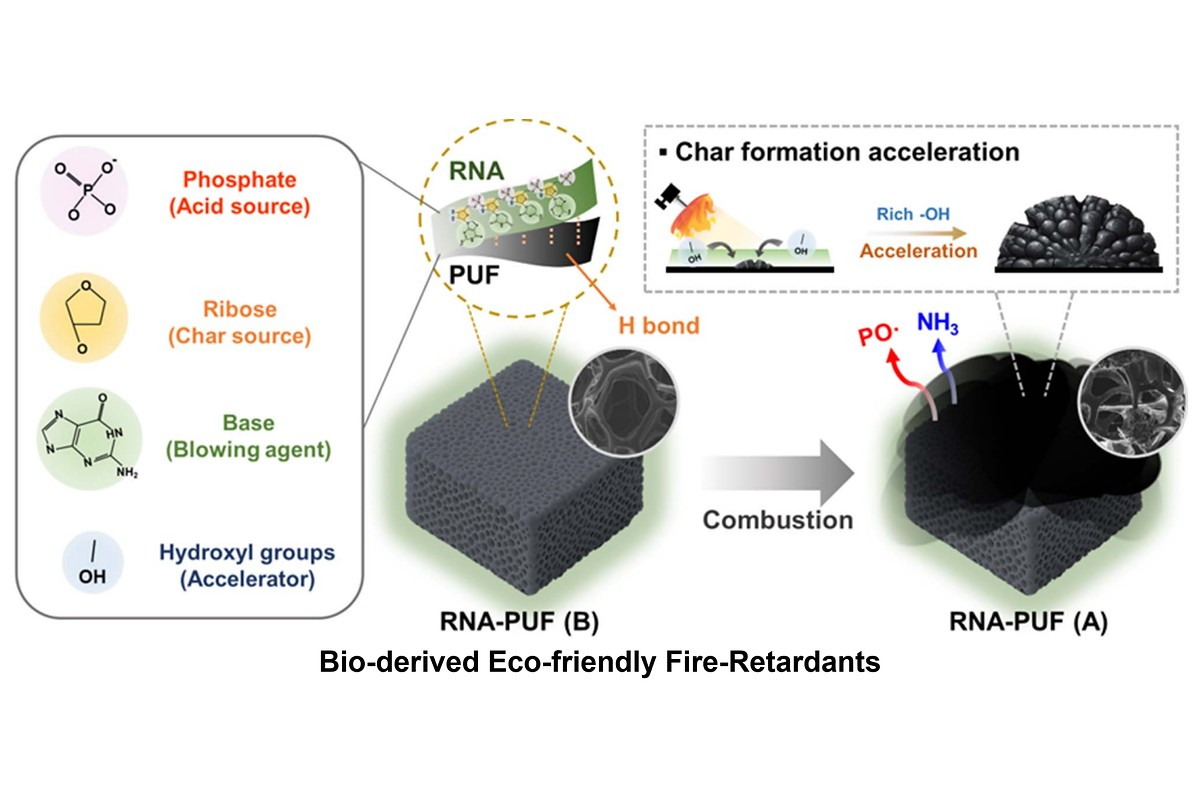
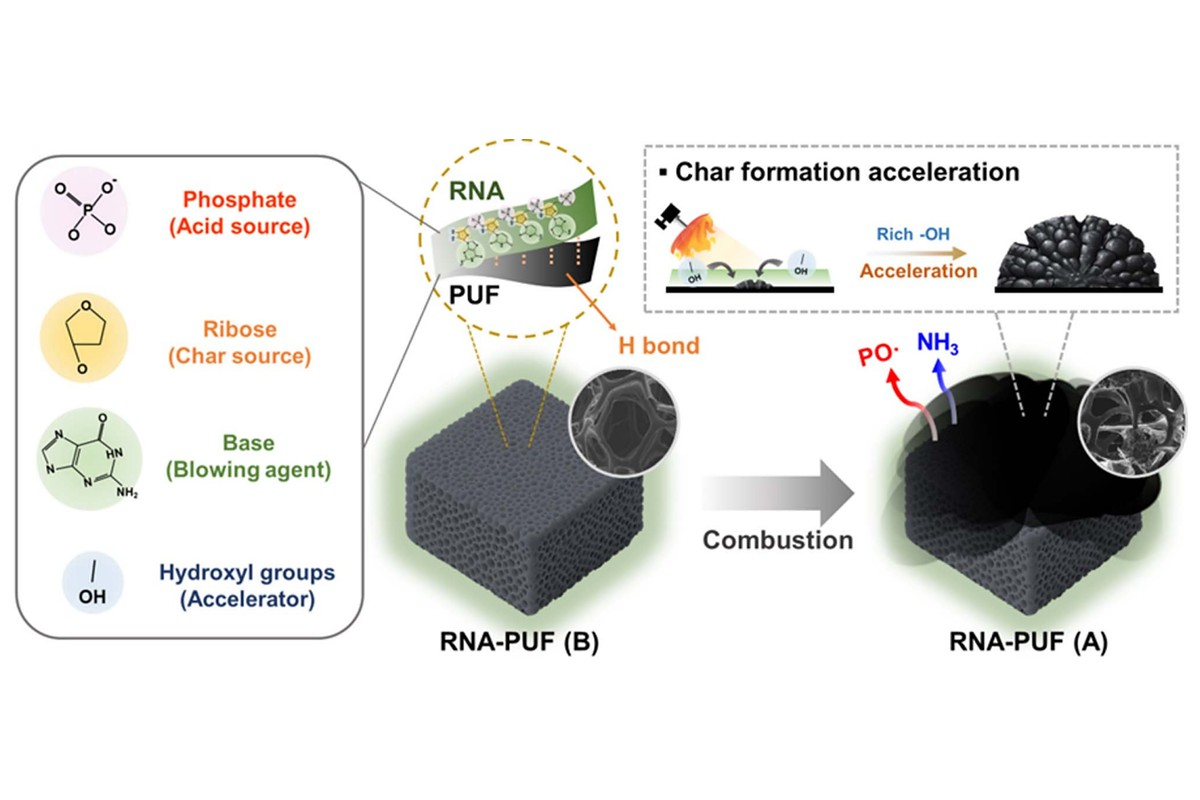
Research: the title line comes off the figures themselves
The lightbox already prints a caption under every figure, so the short title line
sitting under the artwork in the image file was saying the same thing twice. The
title band is gone from nine figures and each one is re-fitted on white:

- aerogel: "Bio-Derived Multifunctional Aerogels"
- thermal filler: "Thermally Switchable Fillers for Heat Dissipation and Insulation"
- SCAC cells: "Single-Chain Atomic Crystals for Enhanced Cell Adhesion and Proliferation"
- hydrogel: "Single-Chain Atomic Crystals for Bone Regeneration"
- RNA flame retardant: "Bio-derived Eco-friendly Fire-Retardants"
- flame test: "Bio-derived Eco-friendly Fire-Retardants"
- AI DNA analysis: "AI-Based DNA Image Analysis"
- cell counting: "Smartphone-Based Colorimetric Cell Quantification"
- dual-enzyme whitening: "Dual-Enzyme-Based Tooth-Whitening Material" (wiped out of the
  white gap beside the dentinal-hypersensitivity column, which is untouched)

The whitening wipe is the only one that needed a box rather than a bottom crop; the
rest were cut below the last row of artwork. Panel labels, axis labels, scale bars,
unit cells and chemical terms stay exactly as they were. The nine figures without
such a title line were left alone. Every ?v= of the changed images is bumped.

Changed region(s): [[0.0, 0.125, 1.0, 0.8438]]

diff --git a/research/index.html b/research/index.html
@@ -88,7 +88,7 @@
       <h2>Four research areas</h2>
       <p>Each area stands on its own and feeds the others: a nanostructure made for diagnosis becomes a surface for studying cells, and the images it generates train the next generation of design models. Each card turns through the figures behind that area; select one to open the viewer and step through them all.</p>
     </div>
-    <div class="area-grid"><article class="area reveal" id="biomedical-diagnosis"><button class="gallery-item area-media" type="button" data-gallery-item data-frames='[{"s": "../assets/research-nanocluster.jpg?v=5af2bd51", "a": "Gold nanorods in mesoporous silica (GNR@mSiO2) nanoclusters: TEM images and cross-sections of the P1, P2 and P3 clusters, and models of a parallelly ordered cluster with the rods packed side by side and a randomly ordered cluster", "c": "Complex nanoclusters: gold nanorods grown inside mesoporous silica (GNR@mSiO2), from the TEM images of the P1, P2 and P3 clusters to the models of a parallelly ordered cluster and a randomly ordered one."}, {"s": "../assets/research-aptamer.jpg?v=9cf2ce0a", "a": "Cycle of graphene-oxide-coated magnetic nanoparticle (GOMNP) SELEX: the beads bind the target-ssDNA complex, magnetic separation, asymmetric PCR amplification and purification for the next round", "c": "Finding new DNA aptamers with graphene-oxide-coated magnetic nanoparticles: target-bound strands are separated magnetically, amplified and carried into the next SELEX round."}, {"s": "../assets/research-cellcount.jpg?v=1a73e40f", "a": "Ach-CC colorimetric sensor: the vials change colour as the cell number rises and membrane enzymes release lactate and hydrogen ions; a smartphone converts RGB to HSV and quantifies 0, 60 x 10^4 and 440 x 10^4 cells", "c": "Counting cells from a colour change: the Ach-CC sensor shifts colour as cells release lactate and hydrogen ions, and a smartphone camera reads the RGB to HSV shift and reports the cell number."}, {"s": "../assets/research-whitening.jpg?v=ee18ba54", "a": "DENTA dual-enzyme tooth whitening: glucose oxidase generates H2O2 for whitening while catalase removes the excess, so sustained whitening replaces the self-degradation of single-enzyme whitening, without killing cells or damaging the dentinal tubules", "c": "Dual-enzyme whitening: glucose oxidase supplies H2O2 while catalase removes the excess, so DENTA keeps whitening instead of consuming itself, without harming cells and with less dentinal hypersensitivity."}, {"s": "../assets/research-plasmonic.jpg?v=5b90ddf2", "a": "DNA-addressed plasmonic colour: red gold nanoparticles, yellow silver nanoparticles and cyan gold nanorods, each carrying its own DNA strand, mix to black in the CRYK colour model; below, a virus capsid and a DNA probe on a gold nanorod that switches on when the virus is captured", "c": "Plasmonic colour from DNA-addressed nanoparticles: gold (red), silver (yellow) and gold-nanorod (cyan) building blocks mix to an achromatic black, and a DNA probe on a gold nanorod reports a captured virus as an ON signal."}]' aria-label="Open the figures for Nanomaterials for Biomedical Diagnosis &amp; Therapy"><span class="gal-track"><img class="gal-frame is-active" src="../assets/research-nanocluster.jpg?v=5af2bd51" alt="Gold nanorods in mesoporous silica (GNR@mSiO2) nanoclusters: TEM images and cross-sections of the P1, P2 and P3 clusters, and models of a parallelly ordered cluster with the rods packed side by side and a randomly ordered cluster" width="1200" height="800" loading="lazy" decoding="async"><img class="gal-frame" src="../assets/research-aptamer.jpg?v=9cf2ce0a" alt="Cycle of graphene-oxide-coated magnetic nanoparticle (GOMNP) SELEX: the beads bind the target-ssDNA complex, magnetic separation, asymmetric PCR amplification and purification for the next round" width="1200" height="800" loading="lazy" decoding="async"><img class="gal-frame" src="../assets/research-cellcount.jpg?v=1a73e40f" alt="Ach-CC colorimetric sensor: the vials change colour as the cell number rises and membrane enzymes release lactate and hydrogen ions; a smartphone converts RGB to HSV and quantifies 0, 60 x 10^4 and 440 x 10^4 cells" width="1200" height="800" loading="lazy" decoding="async"><img class="gal-frame" src="../assets/research-whitening.jpg?v=ee18ba54" alt="DENTA dual-enzyme tooth whitening: glucose oxidase generates H2O2 for whitening while catalase removes the excess, so sustained whitening replaces the self-degradation of single-enzyme whitening, without killing cells or damaging the dentinal tubules" width="1200" height="800" loading="lazy" decoding="async"><img class="gal-frame" src="../assets/research-plasmonic.jpg?v=5b90ddf2" alt="DNA-addressed plasmonic colour: red gold nanoparticles, yellow silver nanoparticles and cyan gold nanorods, each carrying its own DNA strand, mix to black in the CRYK colour model; below, a virus capsid and a DNA probe on a gold nanorod that switches on when the virus is captured" width="1200" height="800" loading="lazy" decoding="async"></span><span class="gal-badge">1 / 5</span><span class="gal-dots"><i class="is-on"></i><i></i><i></i><i></i><i></i></span><span class="zoom"><svg class="" viewBox="0 0 24 24" fill="none" stroke="currentColor" stroke-width="1.8" stroke-linecap="round" stroke-linejoin="round" aria-hidden="true"><path d="M11 19a8 8 0 100-16 8 8 0 000 16zM21 21l-4.3-4.3 M11 8v6M8 11h6"/></svg></span></button><div class="area-body"><span class="card-num">AREA 01</span><h3>Nanomaterials for Biomedical Diagnosis &amp; Therapy</h3><p>Plasmonic nanostructures and complex nanoclusters of gold nanorods in mesoporous silica, DNA aptamers and enzyme- or biomolecule-based systems for sensitive biosensing, diagnostics and targeted therapy.</p></div></article><article class="area reveal" id="materials-cell-interactions"><button class="gallery-item area-media" type="button" data-gallery-item data-frames='[{"s": "../assets/research-cell.jpg?v=2810f20a", "a": "DNApatite model: phosphate groups on single-stranded DNA binding Ca2+ and OH- into an apatite unit cell, the hydrothermal synthesis route, and molecular-dynamics snapshots at 0.4, 50 and 100 ns", "c": "DNApatite, an elastic apatite in which phosphates on DNA react with Ca2+ and OH- to form a crystalline organo-inorganic lattice, from the unit cell to a 200 nm rod and its molecular-dynamics behaviour."}, {"s": "../assets/research-dnapatite-mechanics.jpg?v=852c49da", "a": "DNApatite mechanics: ssDNA phosphate groups crystallize with Ca2+ into an apatite lattice, a 200 nm rod with 0.78 nm HA and 0.37 nm ssDNA spacings, and load-displacement curves that keep bending where HA nanorods fail", "c": "Why DNApatite is elastic: its phosphate backbone sets a 0.37 nm spacing against 0.78 nm in HA, and the rod keeps deforming and recovering in load-displacement tests far beyond the HA nanorod."}, {"s": "../assets/research-scac.jpg?v=f1a5b5c0", "a": "Single-chain atomic crystal (SCAC) Li-Mo-Se nanowires as an ECM-mimicking surface: SEM, actin filaments, focal contacts, nuclei and merged fluorescence of L-929 fibroblasts and MC3T3-E1 pre-osteoblasts on bare glass versus the nanowire coating", "c": "Single-chain atomic crystals of Li-Mo-Se as an extracellular-matrix-mimicking surface: L-929 and MC3T3-E1 cells spread further and build more focal contacts than on bare glass."}, {"s": "../assets/research-hydrogel.jpg?v=d5148ce4", "a": "Mo3Se3 inorganic-molecular-wire reinforced gelatin/silk hydrogel: the porous matrix, its non-covalent cross-links and the 0.6 nm crystal structure of the wire, plus a hole defect in a rabbit model and micro-CT scans at 28 days for the GS and IMW-GS gels", "c": "An inorganic-molecular-wire reinforced gelatin/silk hydrogel for bone regeneration: micro-CT at 28 days shows the wire-reinforced gel filling a rabbit bone defect where the plain gel leaves a void."}]' aria-label="Open the figures for Materials &amp; Cell Interfaces"><span class="gal-track"><img class="gal-frame is-active" src="../assets/research-cell.jpg?v=2810f20a" alt="DNApatite model: phosphate groups on single-stranded DNA binding Ca2+ and OH- into an apatite unit cell, the hydrothermal synthesis route, and molecular-dynamics snapshots at 0.4, 50 and 100 ns" width="1200" height="800" loading="lazy" decoding="async"><img class="gal-frame" src="../assets/research-dnapatite-mechanics.jpg?v=852c49da" alt="DNApatite mechanics: ssDNA phosphate groups crystallize with Ca2+ into an apatite lattice, a 200 nm rod with 0.78 nm HA and 0.37 nm ssDNA spacings, and load-displacement curves that keep bending where HA nanorods fail" width="1200" height="800" loading="lazy" decoding="async"><img class="gal-frame" src="../assets/research-scac.jpg?v=f1a5b5c0" alt="Single-chain atomic crystal (SCAC) Li-Mo-Se nanowires as an ECM-mimicking surface: SEM, actin filaments, focal contacts, nuclei and merged fluorescence of L-929 fibroblasts and MC3T3-E1 pre-osteoblasts on bare glass versus the nanowire coating" width="1200" height="800" loading="lazy" decoding="async"><img class="gal-frame" src="../assets/research-hydrogel.jpg?v=d5148ce4" alt="Mo3Se3 inorganic-molecular-wire reinforced gelatin/silk hydrogel: the porous matrix, its non-covalent cross-links and the 0.6 nm crystal structure of the wire, plus a hole defect in a rabbit model and micro-CT scans at 28 days for the GS and IMW-GS gels" width="1200" height="800" loading="lazy" decoding="async"></span><span class="gal-badge">1 / 4</span><span class="gal-dots"><i class="is-on"></i><i></i><i></i><i></i></span><span class="zoom"><svg class="" viewBox="0 0 24 24" fill="none" stroke="currentColor" stroke-width="1.8" stroke-linecap="round" stroke-linejoin="round" aria-hidden="true"><path d="M11 19a8 8 0 100-16 8 8 0 000 16zM21 21l-4.3-4.3 M11 8v6M8 11h6"/></svg></span></button><div class="area-body"><span class="card-num">AREA 02</span><h3>Materials &amp; Cell Interfaces</h3><p>How nanostructured surfaces and bioinspired hydrogels steer cell adhesion, proliferation and tissue repair in vivo, from single-chain atomic crystals to DNApatite, an organo-inorganic apatite as stiff as bone yet elastic.</p></div></article><article class="area reveal" id="bio-derived-materials"><button class="gallery-item area-media" type="button" data-gallery-item data-frames='[{"s": "../assets/research-bio.jpg?v=2d08a41c", "a": "Textile treatment scheme: a pad-dry-cure process line and C-O-P bonds linking ATP and reactive dye to cellulose in cotton", "c": "Bio-derived materials and flame retardants: cotton is scoured, treated with adenosine triphosphate and a reactive dye, then padded and cured, so C-O-P bonds anchor the bio-derived phosphorus chemistry to the fibre."}, {"s": "../assets/research-fr-rna.jpg?v=0c2c7f63", "a": "RNA as a bio-derived flame retardant for polyurethane foam: its phosphate is the acid source, its ribose the char source, its nucleobase the blowing agent and its hydroxyl groups the accelerator, all hydrogen-bonded to the foam surface, so combustion builds a protective char and releases PO and NH3", "c": "RNA as a fire retardant for polyurethane foam: the phosphate, ribose and nucleobase of RNA act as acid source, char source and blowing agent, and on combustion the foam builds a protective char that releases PO and NH3 instead of burning."}, {"s": "../assets/research-fr-test.jpg?v=74b2f901", "a": "Flame test of bare polyurethane and flame-retardant polyurethane: the bare foam ignites and burns through within 30 seconds while the treated foam holds to 70 seconds, with infrared images of the surface temperature and SEM images of the remaining char", "c": "Bio-derived flame retardancy in polyurethane foam: the untreated foam burns through within 30 seconds, while the treated foam holds its shape to 70 seconds, and infrared imaging and SEM show the cooler surface and the dense char that protects it."}, {"s": "../assets/research-thermal-filler.jpg?v=e5180d97", "a": "Heat-switching filler: magnetite nanoparticles coated with silica and SDS, thermal conductivity peaking at 0.467 W m-1 K-1 for 30 wt% and falling as the temperature rises to 250 C, flame tests of coatings from 0 to 10 wt%, and SEM and TEM images of the particles before and after heating", "c": "A thermally switchable filler: magnetite nanoparticles with a silica shell and an SDS surface conduct heat best at 30 wt%, 0.467 W m-1 K-1, and switch that conduction off as the temperature rises, so one bio-derived coating can either dissipate heat or insulate."}, {"s": "../assets/research-aerogel.jpg?v=5937414d", "a": "Bio-derived multifunctional aerogel: tannic acid, adenosine triphosphate and cellulose nanofibers with 3-aminopropyl triethoxysilane form a TA/ATP/CNF aerogel that is flame retardant, thermally insulating, water resistant, oil absorbent and mechanically strong", "c": "A bio-derived multifunctional aerogel: tannic acid, ATP and cellulose nanofibers with an aminosilane cross-linker give a TA/ATP/CNF aerogel that is flame retardant, thermally insulating, water resistant, oil absorbent and mechanically strong."}]' aria-label="Open the figures for Bio-Derived Materials &amp; Flame Retardants"><span class="gal-track"><img class="gal-frame is-active" src="../assets/research-bio.jpg?v=2d08a41c" alt="Textile treatment scheme: a pad-dry-cure process line and C-O-P bonds linking ATP and reactive dye to cellulose in cotton" width="1200" height="800" loading="lazy" decoding="async"><img class="gal-frame" src="../assets/research-fr-rna.jpg?v=0c2c7f63" alt="RNA as a bio-derived flame retardant for polyurethane foam: its phosphate is the acid source, its ribose the char source, its nucleobase the blowing agent and its hydroxyl groups the accelerator, all hydrogen-bonded to the foam surface, so combustion builds a protective char and releases PO and NH3" width="1200" height="800" loading="lazy" decoding="async"><img class="gal-frame" src="../assets/research-fr-test.jpg?v=74b2f901" alt="Flame test of bare polyurethane and flame-retardant polyurethane: the bare foam ignites and burns through within 30 seconds while the treated foam holds to 70 seconds, with infrared images of the surface temperature and SEM images of the remaining char" width="1200" height="800" loading="lazy" decoding="async"><img class="gal-frame" src="../assets/research-thermal-filler.jpg?v=e5180d97" alt="Heat-switching filler: magnetite nanoparticles coated with silica and SDS, thermal conductivity peaking at 0.467 W m-1 K-1 for 30 wt% and falling as the temperature rises to 250 C, flame tests of coatings from 0 to 10 wt%, and SEM and TEM images of the particles before and after heating" width="1200" height="800" loading="lazy" decoding="async"><img class="gal-frame" src="../assets/research-aerogel.jpg?v=5937414d" alt="Bio-derived multifunctional aerogel: tannic acid, adenosine triphosphate and cellulose nanofibers with 3-aminopropyl triethoxysilane form a TA/ATP/CNF aerogel that is flame retardant, thermally insulating, water resistant, oil absorbent and mechanically strong" width="1200" height="800" loading="lazy" decoding="async"></span><span class="gal-badge">1 / 5</span><span class="gal-dots"><i class="is-on"></i><i></i><i></i><i></i><i></i></span><span class="zoom"><svg class="" viewBox="0 0 24 24" fill="none" stroke="currentColor" stroke-width="1.8" stroke-linecap="round" stroke-linejoin="round" aria-hidden="true"><path d="M11 19a8 8 0 100-16 8 8 0 000 16zM21 21l-4.3-4.3 M11 8v6M8 11h6"/></svg></span></button><div class="area-body"><span class="card-num">AREA 03</span><h3>Bio-Derived Materials &amp; Flame Retardants</h3><p>We develop bio-based flame retardants for polymers and textiles using ATP, RNA, and other biomolecules. We also explore chitosan, cellulose, and other bio-derived building blocks for sustainable materials: aerogels that insulate, repel water and absorb oil, and fillers that switch their heat transport with temperature.</p></div></article><article class="area reveal" id="ai-materials-design"><button class="gallery-item area-media" type="button" data-gallery-item data-frames='[{"s": "../assets/research-ai.jpg?v=423691f2", "a": "Genetic-algorithm image analysis of TEM micrographs: densely packed gold nanorods separated into individual particles, 18-bit gene strings recombined and mutated, and the shapes clustered into groups of 10, 4, 62, 23 and 1 percent", "c": "AI-driven characterization: a genetic algorithm searches 18-bit combinations of image-analysis steps, so densely packed gold nanorods in TEM images are separated into individual particles and clustered into five shape families (10, 4, 62, 23 and 1 percent)."}, {"s": "../assets/research-ai-ga.jpg?v=0db09b6a", "a": "Inside the genetic algorithm: image analysis of a TEM image through pretreatment, edge detection and post treatment, an 18-bit gene that sets kernel size, connectivity, sequence, threshold and select, and crossover and mutation of the high-scoring parameter sets until the particles separate cleanly", "c": "How the search works: each 18-bit gene encodes the kernel size, connectivity, sequence, threshold and selection of the image-analysis steps, and the best-scoring sets are crossed over and mutated until the gold nanorods in the TEM image are separated cleanly."}, {"s": "../assets/research-ai-dna.jpg?v=def2c4d3", "a": "AI-based DNA image analysis: stacks of electron micrographs of salmon sperm DNA and M13 phage DNA are segmented into binary skeletons, so the length and shape of each molecule can be measured", "c": "Deep-learning DNA image analysis: stacks of electron micrographs of salmon sperm DNA and M13 phage DNA are segmented into skeletons, so many molecules are measured for length and shape at once."}, {"s": "../assets/research-opticalmap.jpg?v=a3c85674", "a": "Optical map of a single DNA molecule: DNA-binding proteins and streptavidin-coated quantum dots label chosen sites, fluorescence and SEM images of m13mp18 DNA, and an automated optical map with eight labelled sites along the strand", "c": "Reading a single DNA molecule: quantum-dot labels mark chosen sites on m13mp18 DNA, and an automated read-out of the fluorescence and SEM images turns the labelled positions into an optical map."}]' aria-label="Open the figures for AI-Driven Material Design &amp; Characterization"><span class="gal-track"><img class="gal-frame is-active" src="../assets/research-ai.jpg?v=423691f2" alt="Genetic-algorithm image analysis of TEM micrographs: densely packed gold nanorods separated into individual particles, 18-bit gene strings recombined and mutated, and the shapes clustered into groups of 10, 4, 62, 23 and 1 percent" width="1200" height="800" loading="lazy" decoding="async"><img class="gal-frame" src="../assets/research-ai-ga.jpg?v=0db09b6a" alt="Inside the genetic algorithm: image analysis of a TEM image through pretreatment, edge detection and post treatment, an 18-bit gene that sets kernel size, connectivity, sequence, threshold and select, and crossover and mutation of the high-scoring parameter sets until the particles separate cleanly" width="1200" height="800" loading="lazy" decoding="async"><img class="gal-frame" src="../assets/research-ai-dna.jpg?v=def2c4d3" alt="AI-based DNA image analysis: stacks of electron micrographs of salmon sperm DNA and M13 phage DNA are segmented into binary skeletons, so the length and shape of each molecule can be measured" width="1200" height="800" loading="lazy" decoding="async"><img class="gal-frame" src="../assets/research-opticalmap.jpg?v=a3c85674" alt="Optical map of a single DNA molecule: DNA-binding proteins and streptavidin-coated quantum dots label chosen sites, fluorescence and SEM images of m13mp18 DNA, and an automated optical map with eight labelled sites along the strand" width="1200" height="800" loading="lazy" decoding="async"></span><span class="gal-badge">1 / 4</span><span class="gal-dots"><i class="is-on"></i><i></i><i></i><i></i></span><span class="zoom"><svg class="" viewBox="0 0 24 24" fill="none" stroke="currentColor" stroke-width="1.8" stroke-linecap="round" stroke-linejoin="round" aria-hidden="true"><path d="M11 19a8 8 0 100-16 8 8 0 000 16zM21 21l-4.3-4.3 M11 8v6M8 11h6"/></svg></span></button><div class="area-body"><span class="card-num">AREA 04</span><h3>AI-Driven Material Design &amp; Characterization</h3><p>Machine-learning image analysis, genetic algorithms and autonomous agents that read electron micrographs, quantify nanostructures and shorten the path from a design idea to a validated material.</p></div></article></div>
+    <div class="area-grid"><article class="area reveal" id="biomedical-diagnosis"><button class="gallery-item area-media" type="button" data-gallery-item data-frames='[{"s": "../assets/research-nanocluster.jpg?v=5af2bd51", "a": "Gold nanorods in mesoporous silica (GNR@mSiO2) nanoclusters: TEM images and cross-sections of the P1, P2 and P3 clusters, and models of a parallelly ordered cluster with the rods packed side by side and a randomly ordered cluster", "c": "Complex nanoclusters: gold nanorods grown inside mesoporous silica (GNR@mSiO2), from the TEM images of the P1, P2 and P3 clusters to the models of a parallelly ordered cluster and a randomly ordered one."}, {"s": "../assets/research-aptamer.jpg?v=9cf2ce0a", "a": "Cycle of graphene-oxide-coated magnetic nanoparticle (GOMNP) SELEX: the beads bind the target-ssDNA complex, magnetic separation, asymmetric PCR amplification and purification for the next round", "c": "Finding new DNA aptamers with graphene-oxide-coated magnetic nanoparticles: target-bound strands are separated magnetically, amplified and carried into the next SELEX round."}, {"s": "../assets/research-cellcount.jpg?v=c017a470", "a": "Ach-CC colorimetric sensor: the vials change colour as the cell number rises and membrane enzymes release lactate and hydrogen ions; a smartphone converts RGB to HSV and quantifies 0, 60 x 10^4 and 440 x 10^4 cells", "c": "Counting cells from a colour change: the Ach-CC sensor shifts colour as cells release lactate and hydrogen ions, and a smartphone camera reads the RGB to HSV shift and reports the cell number."}, {"s": "../assets/research-whitening.jpg?v=34824e43", "a": "DENTA dual-enzyme tooth whitening: glucose oxidase generates H2O2 for whitening while catalase removes the excess, so sustained whitening replaces the self-degradation of single-enzyme whitening, without killing cells or damaging the dentinal tubules", "c": "Dual-enzyme whitening: glucose oxidase supplies H2O2 while catalase removes the excess, so DENTA keeps whitening instead of consuming itself, without harming cells and with less dentinal hypersensitivity."}, {"s": "../assets/research-plasmonic.jpg?v=5b90ddf2", "a": "DNA-addressed plasmonic colour: red gold nanoparticles, yellow silver nanoparticles and cyan gold nanorods, each carrying its own DNA strand, mix to black in the CRYK colour model; below, a virus capsid and a DNA probe on a gold nanorod that switches on when the virus is captured", "c": "Plasmonic colour from DNA-addressed nanoparticles: gold (red), silver (yellow) and gold-nanorod (cyan) building blocks mix to an achromatic black, and a DNA probe on a gold nanorod reports a captured virus as an ON signal."}]' aria-label="Open the figures for Nanomaterials for Biomedical Diagnosis &amp; Therapy"><span class="gal-track"><img class="gal-frame is-active" src="../assets/research-nanocluster.jpg?v=5af2bd51" alt="Gold nanorods in mesoporous silica (GNR@mSiO2) nanoclusters: TEM images and cross-sections of the P1, P2 and P3 clusters, and models of a parallelly ordered cluster with the rods packed side by side and a randomly ordered cluster" width="1200" height="800" loading="lazy" decoding="async"><img class="gal-frame" src="../assets/research-aptamer.jpg?v=9cf2ce0a" alt="Cycle of graphene-oxide-coated magnetic nanoparticle (GOMNP) SELEX: the beads bind the target-ssDNA complex, magnetic separation, asymmetric PCR amplification and purification for the next round" width="1200" height="800" loading="lazy" decoding="async"><img class="gal-frame" src="../assets/research-cellcount.jpg?v=c017a470" alt="Ach-CC colorimetric sensor: the vials change colour as the cell number rises and membrane enzymes release lactate and hydrogen ions; a smartphone converts RGB to HSV and quantifies 0, 60 x 10^4 and 440 x 10^4 cells" width="1200" height="800" loading="lazy" decoding="async"><img class="gal-frame" src="../assets/research-whitening.jpg?v=34824e43" alt="DENTA dual-enzyme tooth whitening: glucose oxidase generates H2O2 for whitening while catalase removes the excess, so sustained whitening replaces the self-degradation of single-enzyme whitening, without killing cells or damaging the dentinal tubules" width="1200" height="800" loading="lazy" decoding="async"><img class="gal-frame" src="../assets/research-plasmonic.jpg?v=5b90ddf2" alt="DNA-addressed plasmonic colour: red gold nanoparticles, yellow silver nanoparticles and cyan gold nanorods, each carrying its own DNA strand, mix to black in the CRYK colour model; below, a virus capsid and a DNA probe on a gold nanorod that switches on when the virus is captured" width="1200" height="800" loading="lazy" decoding="async"></span><span class="gal-badge">1 / 5</span><span class="gal-dots"><i class="is-on"></i><i></i><i></i><i></i><i></i></span><span class="zoom"><svg class="" viewBox="0 0 24 24" fill="none" stroke="currentColor" stroke-width="1.8" stroke-linecap="round" stroke-linejoin="round" aria-hidden="true"><path d="M11 19a8 8 0 100-16 8 8 0 000 16zM21 21l-4.3-4.3 M11 8v6M8 11h6"/></svg></span></button><div class="area-body"><span class="card-num">AREA 01</span><h3>Nanomaterials for Biomedical Diagnosis &amp; Therapy</h3><p>Plasmonic nanostructures and complex nanoclusters of gold nanorods in mesoporous silica, DNA aptamers and enzyme- or biomolecule-based systems for sensitive biosensing, diagnostics and targeted therapy.</p></div></article><article class="area reveal" id="materials-cell-interactions"><button class="gallery-item area-media" type="button" data-gallery-item data-frames='[{"s": "../assets/research-cell.jpg?v=2810f20a", "a": "DNApatite model: phosphate groups on single-stranded DNA binding Ca2+ and OH- into an apatite unit cell, the hydrothermal synthesis route, and molecular-dynamics snapshots at 0.4, 50 and 100 ns", "c": "DNApatite, an elastic apatite in which phosphates on DNA react with Ca2+ and OH- to form a crystalline organo-inorganic lattice, from the unit cell to a 200 nm rod and its molecular-dynamics behaviour."}, {"s": "../assets/research-dnapatite-mechanics.jpg?v=852c49da", "a": "DNApatite mechanics: ssDNA phosphate groups crystallize with Ca2+ into an apatite lattice, a 200 nm rod with 0.78 nm HA and 0.37 nm ssDNA spacings, and load-displacement curves that keep bending where HA nanorods fail", "c": "Why DNApatite is elastic: its phosphate backbone sets a 0.37 nm spacing against 0.78 nm in HA, and the rod keeps deforming and recovering in load-displacement tests far beyond the HA nanorod."}, {"s": "../assets/research-scac.jpg?v=ce71180d", "a": "Single-chain atomic crystal (SCAC) Li-Mo-Se nanowires as an ECM-mimicking surface: SEM, actin filaments, focal contacts, nuclei and merged fluorescence of L-929 fibroblasts and MC3T3-E1 pre-osteoblasts on bare glass versus the nanowire coating", "c": "Single-chain atomic crystals of Li-Mo-Se as an extracellular-matrix-mimicking surface: L-929 and MC3T3-E1 cells spread further and build more focal contacts than on bare glass."}, {"s": "../assets/research-hydrogel.jpg?v=f228cd94", "a": "Mo3Se3 inorganic-molecular-wire reinforced gelatin/silk hydrogel: the porous matrix, its non-covalent cross-links and the 0.6 nm crystal structure of the wire, plus a hole defect in a rabbit model and micro-CT scans at 28 days for the GS and IMW-GS gels", "c": "An inorganic-molecular-wire reinforced gelatin/silk hydrogel for bone regeneration: micro-CT at 28 days shows the wire-reinforced gel filling a rabbit bone defect where the plain gel leaves a void."}]' aria-label="Open the figures for Materials &amp; Cell Interfaces"><span class="gal-track"><img class="gal-frame is-active" src="../assets/research-cell.jpg?v=2810f20a" alt="DNApatite model: phosphate groups on single-stranded DNA binding Ca2+ and OH- into an apatite unit cell, the hydrothermal synthesis route, and molecular-dynamics snapshots at 0.4, 50 and 100 ns" width="1200" height="800" loading="lazy" decoding="async"><img class="gal-frame" src="../assets/research-dnapatite-mechanics.jpg?v=852c49da" alt="DNApatite mechanics: ssDNA phosphate groups crystallize with Ca2+ into an apatite lattice, a 200 nm rod with 0.78 nm HA and 0.37 nm ssDNA spacings, and load-displacement curves that keep bending where HA nanorods fail" width="1200" height="800" loading="lazy" decoding="async"><img class="gal-frame" src="../assets/research-scac.jpg?v=ce71180d" alt="Single-chain atomic crystal (SCAC) Li-Mo-Se nanowires as an ECM-mimicking surface: SEM, actin filaments, focal contacts, nuclei and merged fluorescence of L-929 fibroblasts and MC3T3-E1 pre-osteoblasts on bare glass versus the nanowire coating" width="1200" height="800" loading="lazy" decoding="async"><img class="gal-frame" src="../assets/research-hydrogel.jpg?v=f228cd94" alt="Mo3Se3 inorganic-molecular-wire reinforced gelatin/silk hydrogel: the porous matrix, its non-covalent cross-links and the 0.6 nm crystal structure of the wire, plus a hole defect in a rabbit model and micro-CT scans at 28 days for the GS and IMW-GS gels" width="1200" height="800" loading="lazy" decoding="async"></span><span class="gal-badge">1 / 4</span><span class="gal-dots"><i class="is-on"></i><i></i><i></i><i></i></span><span class="zoom"><svg class="" viewBox="0 0 24 24" fill="none" stroke="currentColor" stroke-width="1.8" stroke-linecap="round" stroke-linejoin="round" aria-hidden="true"><path d="M11 19a8 8 0 100-16 8 8 0 000 16zM21 21l-4.3-4.3 M11 8v6M8 11h6"/></svg></span></button><div class="area-body"><span class="card-num">AREA 02</span><h3>Materials &amp; Cell Interfaces</h3><p>How nanostructured surfaces and bioinspired hydrogels steer cell adhesion, proliferation and tissue repair in vivo, from single-chain atomic crystals to DNApatite, an organo-inorganic apatite as stiff as bone yet elastic.</p></div></article><article class="area reveal" id="bio-derived-materials"><button class="gallery-item area-media" type="button" data-gallery-item data-frames='[{"s": "../assets/research-bio.jpg?v=2d08a41c", "a": "Textile treatment scheme: a pad-dry-cure process line and C-O-P bonds linking ATP and reactive dye to cellulose in cotton", "c": "Bio-derived materials and flame retardants: cotton is scoured, treated with adenosine triphosphate and a reactive dye, then padded and cured, so C-O-P bonds anchor the bio-derived phosphorus chemistry to the fibre."}, {"s": "../assets/research-fr-rna.jpg?v=8b1ef378", "a": "RNA as a bio-derived flame retardant for polyurethane foam: its phosphate is the acid source, its ribose the char source, its nucleobase the blowing agent and its hydroxyl groups the accelerator, all hydrogen-bonded to the foam surface, so combustion builds a protective char and releases PO and NH3", "c": "RNA as a fire retardant for polyurethane foam: the phosphate, ribose and nucleobase of RNA act as acid source, char source and blowing agent, and on combustion the foam builds a protective char that releases PO and NH3 instead of burning."}, {"s": "../assets/research-fr-test.jpg?v=47be9edc", "a": "Flame test of bare polyurethane and flame-retardant polyurethane: the bare foam ignites and burns through within 30 seconds while the treated foam holds to 70 seconds, with infrared images of the surface temperature and SEM images of the remaining char", "c": "Bio-derived flame retardancy in polyurethane foam: the untreated foam burns through within 30 seconds, while the treated foam holds its shape to 70 seconds, and infrared imaging and SEM show the cooler surface and the dense char that protects it."}, {"s": "../assets/research-thermal-filler.jpg?v=7caf60e2", "a": "Heat-switching filler: magnetite nanoparticles coated with silica and SDS, thermal conductivity peaking at 0.467 W m-1 K-1 for 30 wt% and falling as the temperature rises to 250 C, flame tests of coatings from 0 to 10 wt%, and SEM and TEM images of the particles before and after heating", "c": "A thermally switchable filler: magnetite nanoparticles with a silica shell and an SDS surface conduct heat best at 30 wt%, 0.467 W m-1 K-1, and switch that conduction off as the temperature rises, so one bio-derived coating can either dissipate heat or insulate."}, {"s": "../assets/research-aerogel.jpg?v=98b30487", "a": "Bio-derived multifunctional aerogel: tannic acid, adenosine triphosphate and cellulose nanofibers with 3-aminopropyl triethoxysilane form a TA/ATP/CNF aerogel that is flame retardant, thermally insulating, water resistant, oil absorbent and mechanically strong", "c": "A bio-derived multifunctional aerogel: tannic acid, ATP and cellulose nanofibers with an aminosilane cross-linker give a TA/ATP/CNF aerogel that is flame retardant, thermally insulating, water resistant, oil absorbent and mechanically strong."}]' aria-label="Open the figures for Bio-Derived Materials &amp; Flame Retardants"><span class="gal-track"><img class="gal-frame is-active" src="../assets/research-bio.jpg?v=2d08a41c" alt="Textile treatment scheme: a pad-dry-cure process line and C-O-P bonds linking ATP and reactive dye to cellulose in cotton" width="1200" height="800" loading="lazy" decoding="async"><img class="gal-frame" src="../assets/research-fr-rna.jpg?v=8b1ef378" alt="RNA as a bio-derived flame retardant for polyurethane foam: its phosphate is the acid source, its ribose the char source, its nucleobase the blowing agent and its hydroxyl groups the accelerator, all hydrogen-bonded to the foam surface, so combustion builds a protective char and releases PO and NH3" width="1200" height="800" loading="lazy" decoding="async"><img class="gal-frame" src="../assets/research-fr-test.jpg?v=47be9edc" alt="Flame test of bare polyurethane and flame-retardant polyurethane: the bare foam ignites and burns through within 30 seconds while the treated foam holds to 70 seconds, with infrared images of the surface temperature and SEM images of the remaining char" width="1200" height="800" loading="lazy" decoding="async"><img class="gal-frame" src="../assets/research-thermal-filler.jpg?v=7caf60e2" alt="Heat-switching filler: magnetite nanoparticles coated with silica and SDS, thermal conductivity peaking at 0.467 W m-1 K-1 for 30 wt% and falling as the temperature rises to 250 C, flame tests of coatings from 0 to 10 wt%, and SEM and TEM images of the particles before and after heating" width="1200" height="800" loading="lazy" decoding="async"><img class="gal-frame" src="../assets/research-aerogel.jpg?v=98b30487" alt="Bio-derived multifunctional aerogel: tannic acid, adenosine triphosphate and cellulose nanofibers with 3-aminopropyl triethoxysilane form a TA/ATP/CNF aerogel that is flame retardant, thermally insulating, water resistant, oil absorbent and mechanically strong" width="1200" height="800" loading="lazy" decoding="async"></span><span class="gal-badge">1 / 5</span><span class="gal-dots"><i class="is-on"></i><i></i><i></i><i></i><i></i></span><span class="zoom"><svg class="" viewBox="0 0 24 24" fill="none" stroke="currentColor" stroke-width="1.8" stroke-linecap="round" stroke-linejoin="round" aria-hidden="true"><path d="M11 19a8 8 0 100-16 8 8 0 000 16zM21 21l-4.3-4.3 M11 8v6M8 11h6"/></svg></span></button><div class="area-body"><span class="card-num">AREA 03</span><h3>Bio-Derived Materials &amp; Flame Retardants</h3><p>We develop bio-based flame retardants for polymers and textiles using ATP, RNA, and other biomolecules. We also explore chitosan, cellulose, and other bio-derived building blocks for sustainable materials: aerogels that insulate, repel water and absorb oil, and fillers that switch their heat transport with temperature.</p></div></article><article class="area reveal" id="ai-materials-design"><button class="gallery-item area-media" type="button" data-gallery-item data-frames='[{"s": "../assets/research-ai.jpg?v=423691f2", "a": "Genetic-algorithm image analysis of TEM micrographs: densely packed gold nanorods separated into individual particles, 18-bit gene strings recombined and mutated, and the shapes clustered into groups of 10, 4, 62, 23 and 1 percent", "c": "AI-driven characterization: a genetic algorithm searches 18-bit combinations of image-analysis steps, so densely packed gold nanorods in TEM images are separated into individual particles and clustered into five shape families (10, 4, 62, 23 and 1 percent)."}, {"s": "../assets/research-ai-ga.jpg?v=0db09b6a", "a": "Inside the genetic algorithm: image analysis of a TEM image through pretreatment, edge detection and post treatment, an 18-bit gene that sets kernel size, connectivity, sequence, threshold and select, and crossover and mutation of the high-scoring parameter sets until the particles separate cleanly", "c": "How the search works: each 18-bit gene encodes the kernel size, connectivity, sequence, threshold and selection of the image-analysis steps, and the best-scoring sets are crossed over and mutated until the gold nanorods in the TEM image are separated cleanly."}, {"s": "../assets/research-ai-dna.jpg?v=f734e319", "a": "AI-based DNA image analysis: stacks of electron micrographs of salmon sperm DNA and M13 phage DNA are segmented into binary skeletons, so the length and shape of each molecule can be measured", "c": "Deep-learning DNA image analysis: stacks of electron micrographs of salmon sperm DNA and M13 phage DNA are segmented into skeletons, so many molecules are measured for length and shape at once."}, {"s": "../assets/research-opticalmap.jpg?v=a3c85674", "a": "Optical map of a single DNA molecule: DNA-binding proteins and streptavidin-coated quantum dots label chosen sites, fluorescence and SEM images of m13mp18 DNA, and an automated optical map with eight labelled sites along the strand", "c": "Reading a single DNA molecule: quantum-dot labels mark chosen sites on m13mp18 DNA, and an automated read-out of the fluorescence and SEM images turns the labelled positions into an optical map."}]' aria-label="Open the figures for AI-Driven Material Design &amp; Characterization"><span class="gal-track"><img class="gal-frame is-active" src="../assets/research-ai.jpg?v=423691f2" alt="Genetic-algorithm image analysis of TEM micrographs: densely packed gold nanorods separated into individual particles, 18-bit gene strings recombined and mutated, and the shapes clustered into groups of 10, 4, 62, 23 and 1 percent" width="1200" height="800" loading="lazy" decoding="async"><img class="gal-frame" src="../assets/research-ai-ga.jpg?v=0db09b6a" alt="Inside the genetic algorithm: image analysis of a TEM image through pretreatment, edge detection and post treatment, an 18-bit gene that sets kernel size, connectivity, sequence, threshold and select, and crossover and mutation of the high-scoring parameter sets until the particles separate cleanly" width="1200" height="800" loading="lazy" decoding="async"><img class="gal-frame" src="../assets/research-ai-dna.jpg?v=f734e319" alt="AI-based DNA image analysis: stacks of electron micrographs of salmon sperm DNA and M13 phage DNA are segmented into binary skeletons, so the length and shape of each molecule can be measured" width="1200" height="800" loading="lazy" decoding="async"><img class="gal-frame" src="../assets/research-opticalmap.jpg?v=a3c85674" alt="Optical map of a single DNA molecule: DNA-binding proteins and streptavidin-coated quantum dots label chosen sites, fluorescence and SEM images of m13mp18 DNA, and an automated optical map with eight labelled sites along the strand" width="1200" height="800" loading="lazy" decoding="async"></span><span class="gal-badge">1 / 4</span><span class="gal-dots"><i class="is-on"></i><i></i><i></i><i></i></span><span class="zoom"><svg class="" viewBox="0 0 24 24" fill="none" stroke="currentColor" stroke-width="1.8" stroke-linecap="round" stroke-linejoin="round" aria-hidden="true"><path d="M11 19a8 8 0 100-16 8 8 0 000 16zM21 21l-4.3-4.3 M11 8v6M8 11h6"/></svg></span></button><div class="area-body"><span class="card-num">AREA 04</span><h3>AI-Driven Material Design &amp; Characterization</h3><p>Machine-learning image analysis, genetic algorithms and autonomous agents that read electron micrographs, quantify nanostructures and shorten the path from a design idea to a validated material.</p></div></article></div>
   </div>
 </section>
 
